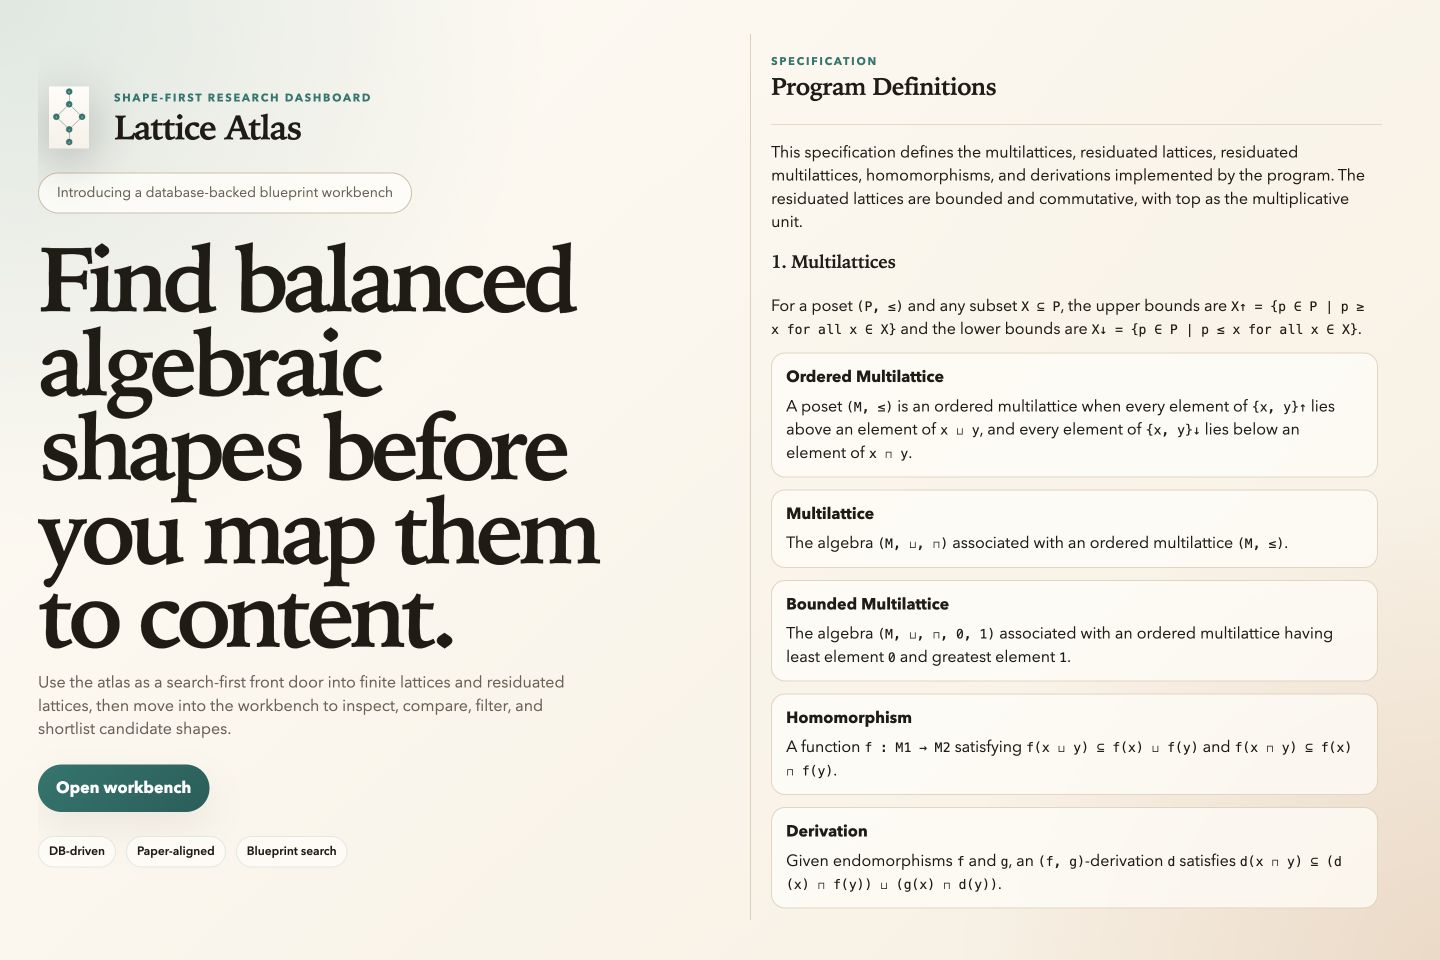
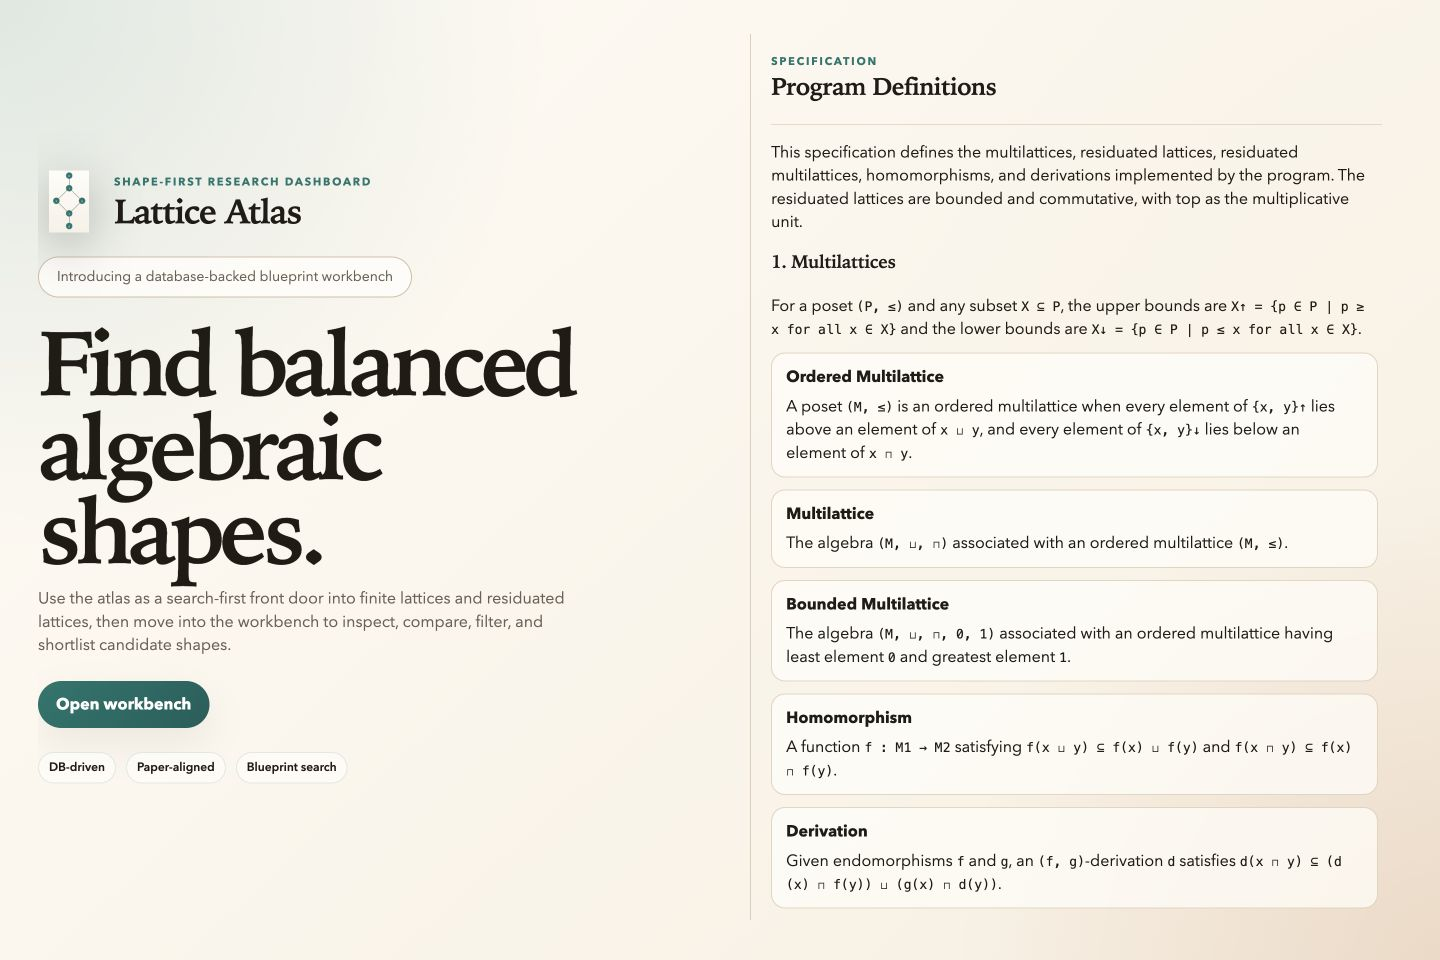
Add project README and screenshots

diff --git a/web/index.html b/web/index.html
@@ -20,7 +20,7 @@
           </div>
           <div class="intro-pill">Introducing a database-backed blueprint workbench</div>
           <div class="intro-copy">
-            <h2>Find balanced algebraic shapes before you map them to content.</h2>
+            <h2>Find balanced algebraic shapes.</h2>
             <p class="lede">Use the atlas as a search-first front door into finite lattices and residuated lattices, then move into the workbench to inspect, compare, filter, and shortlist candidate shapes.</p>
           </div>
           <div class="intro-actions">